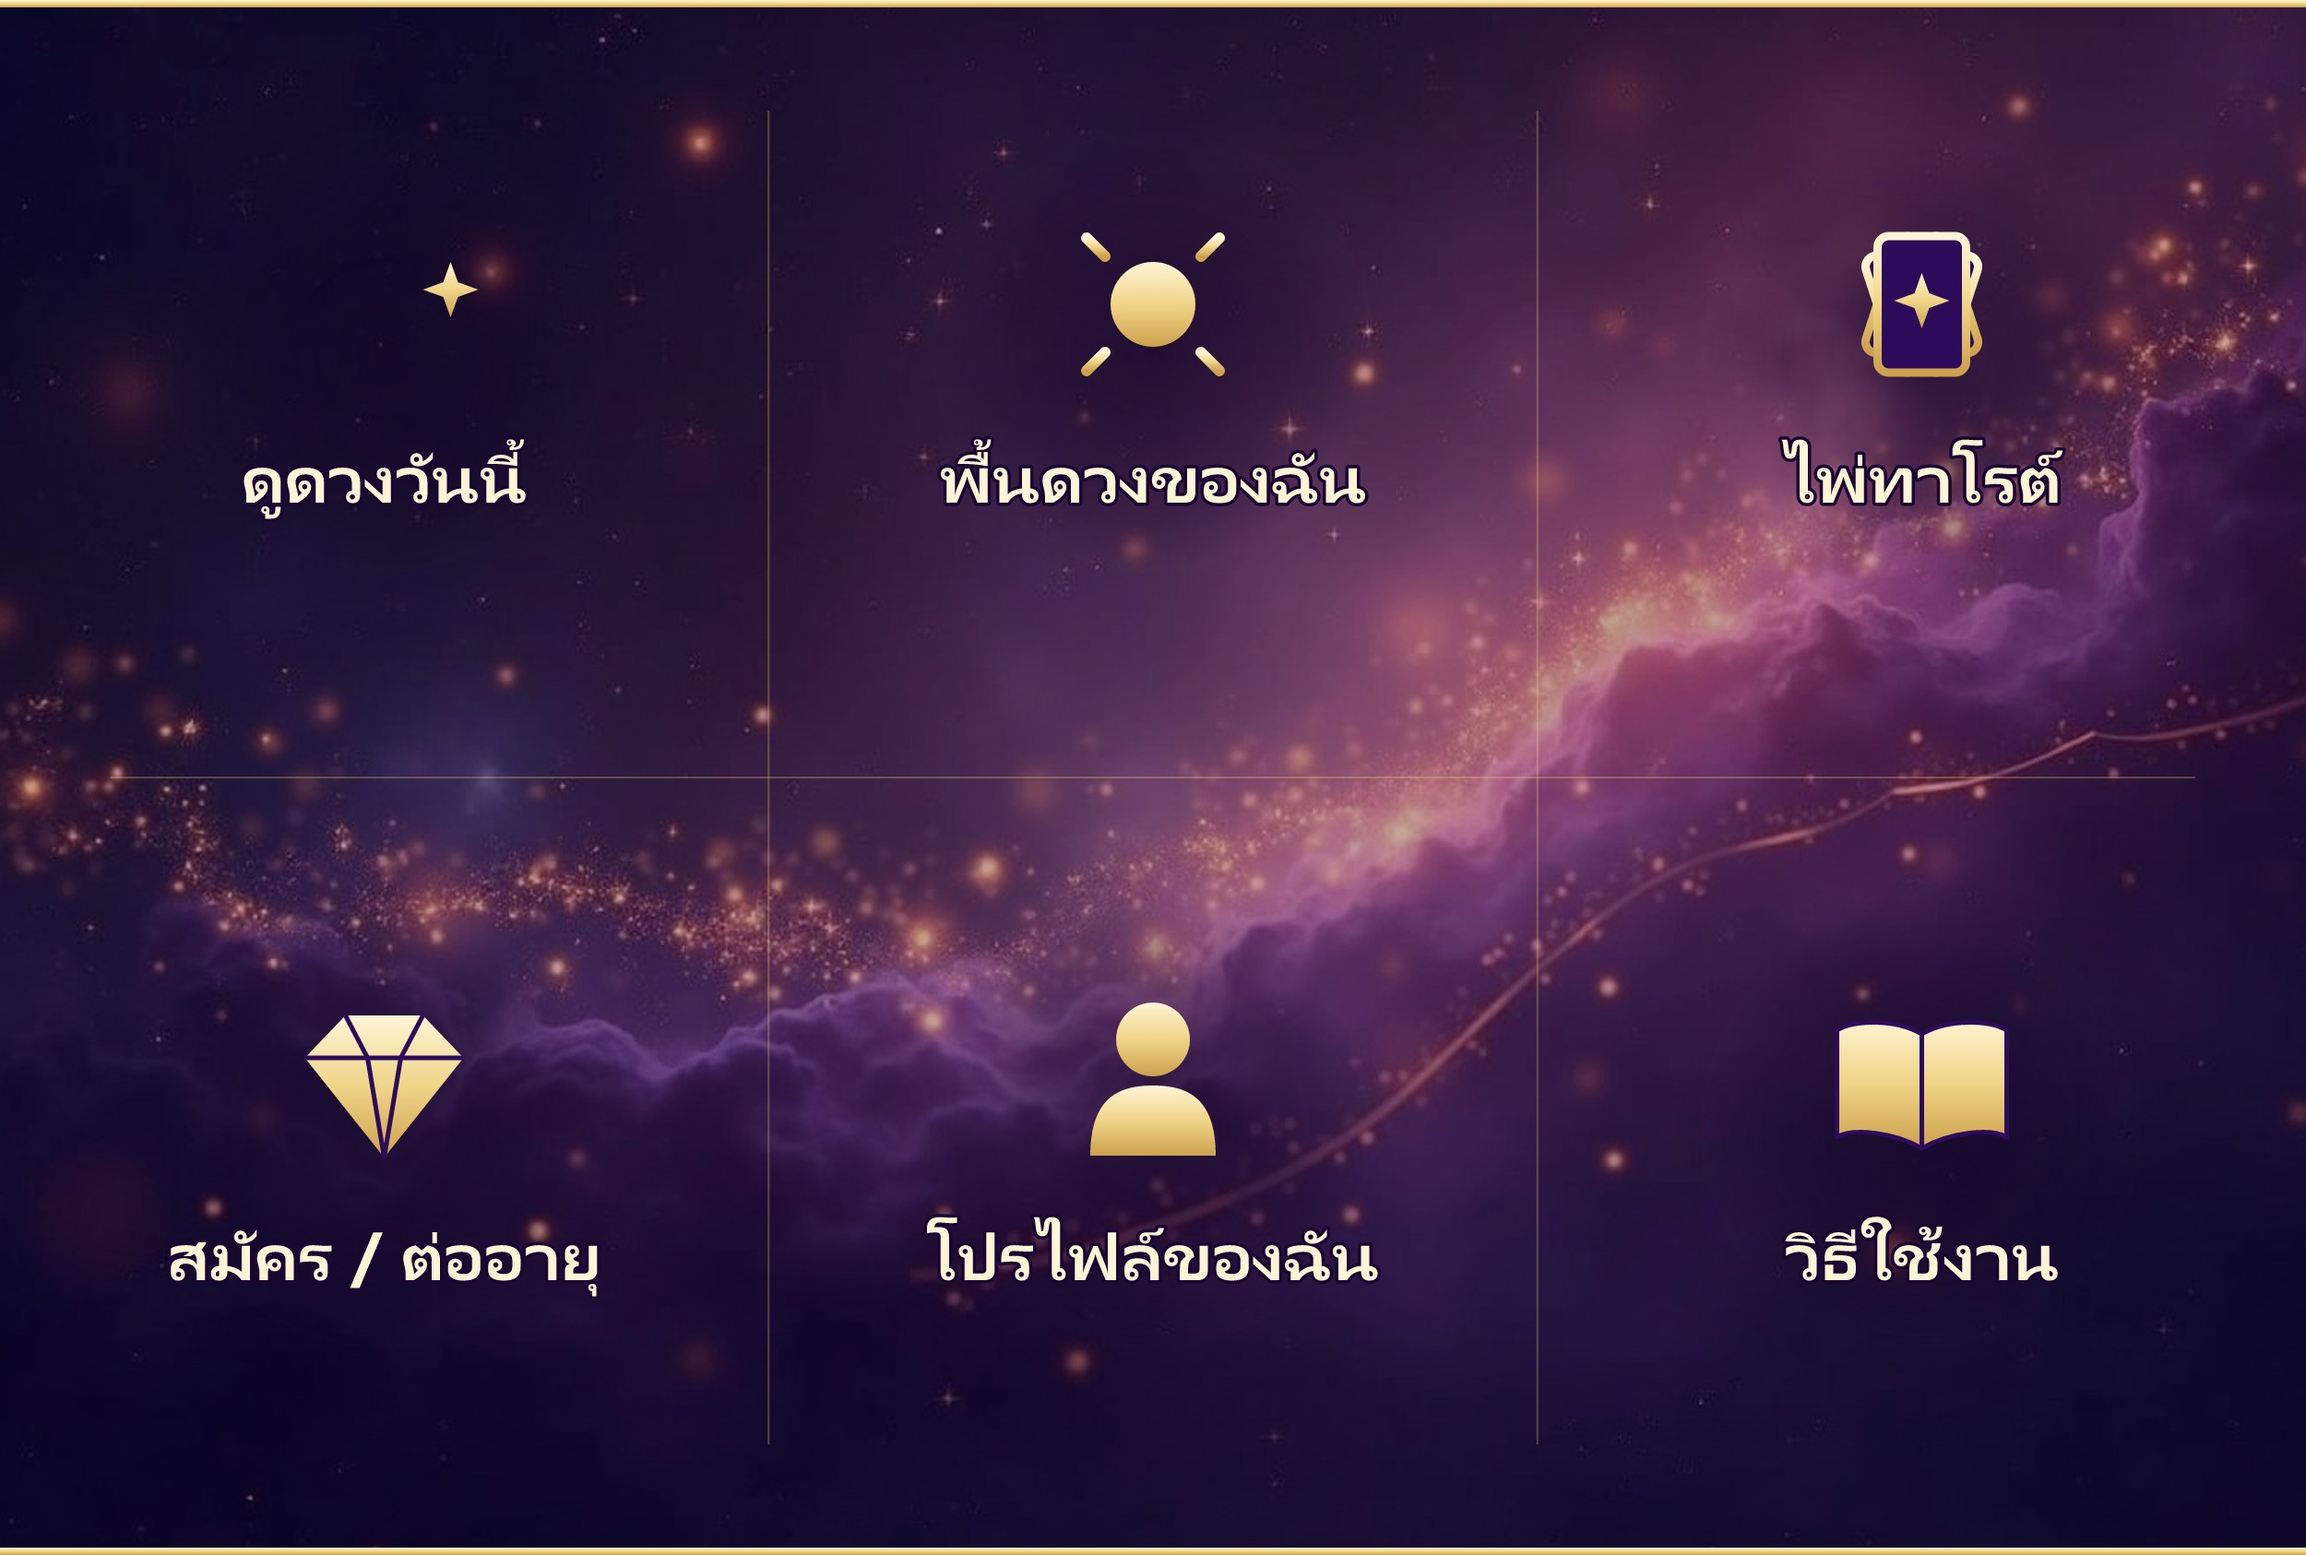
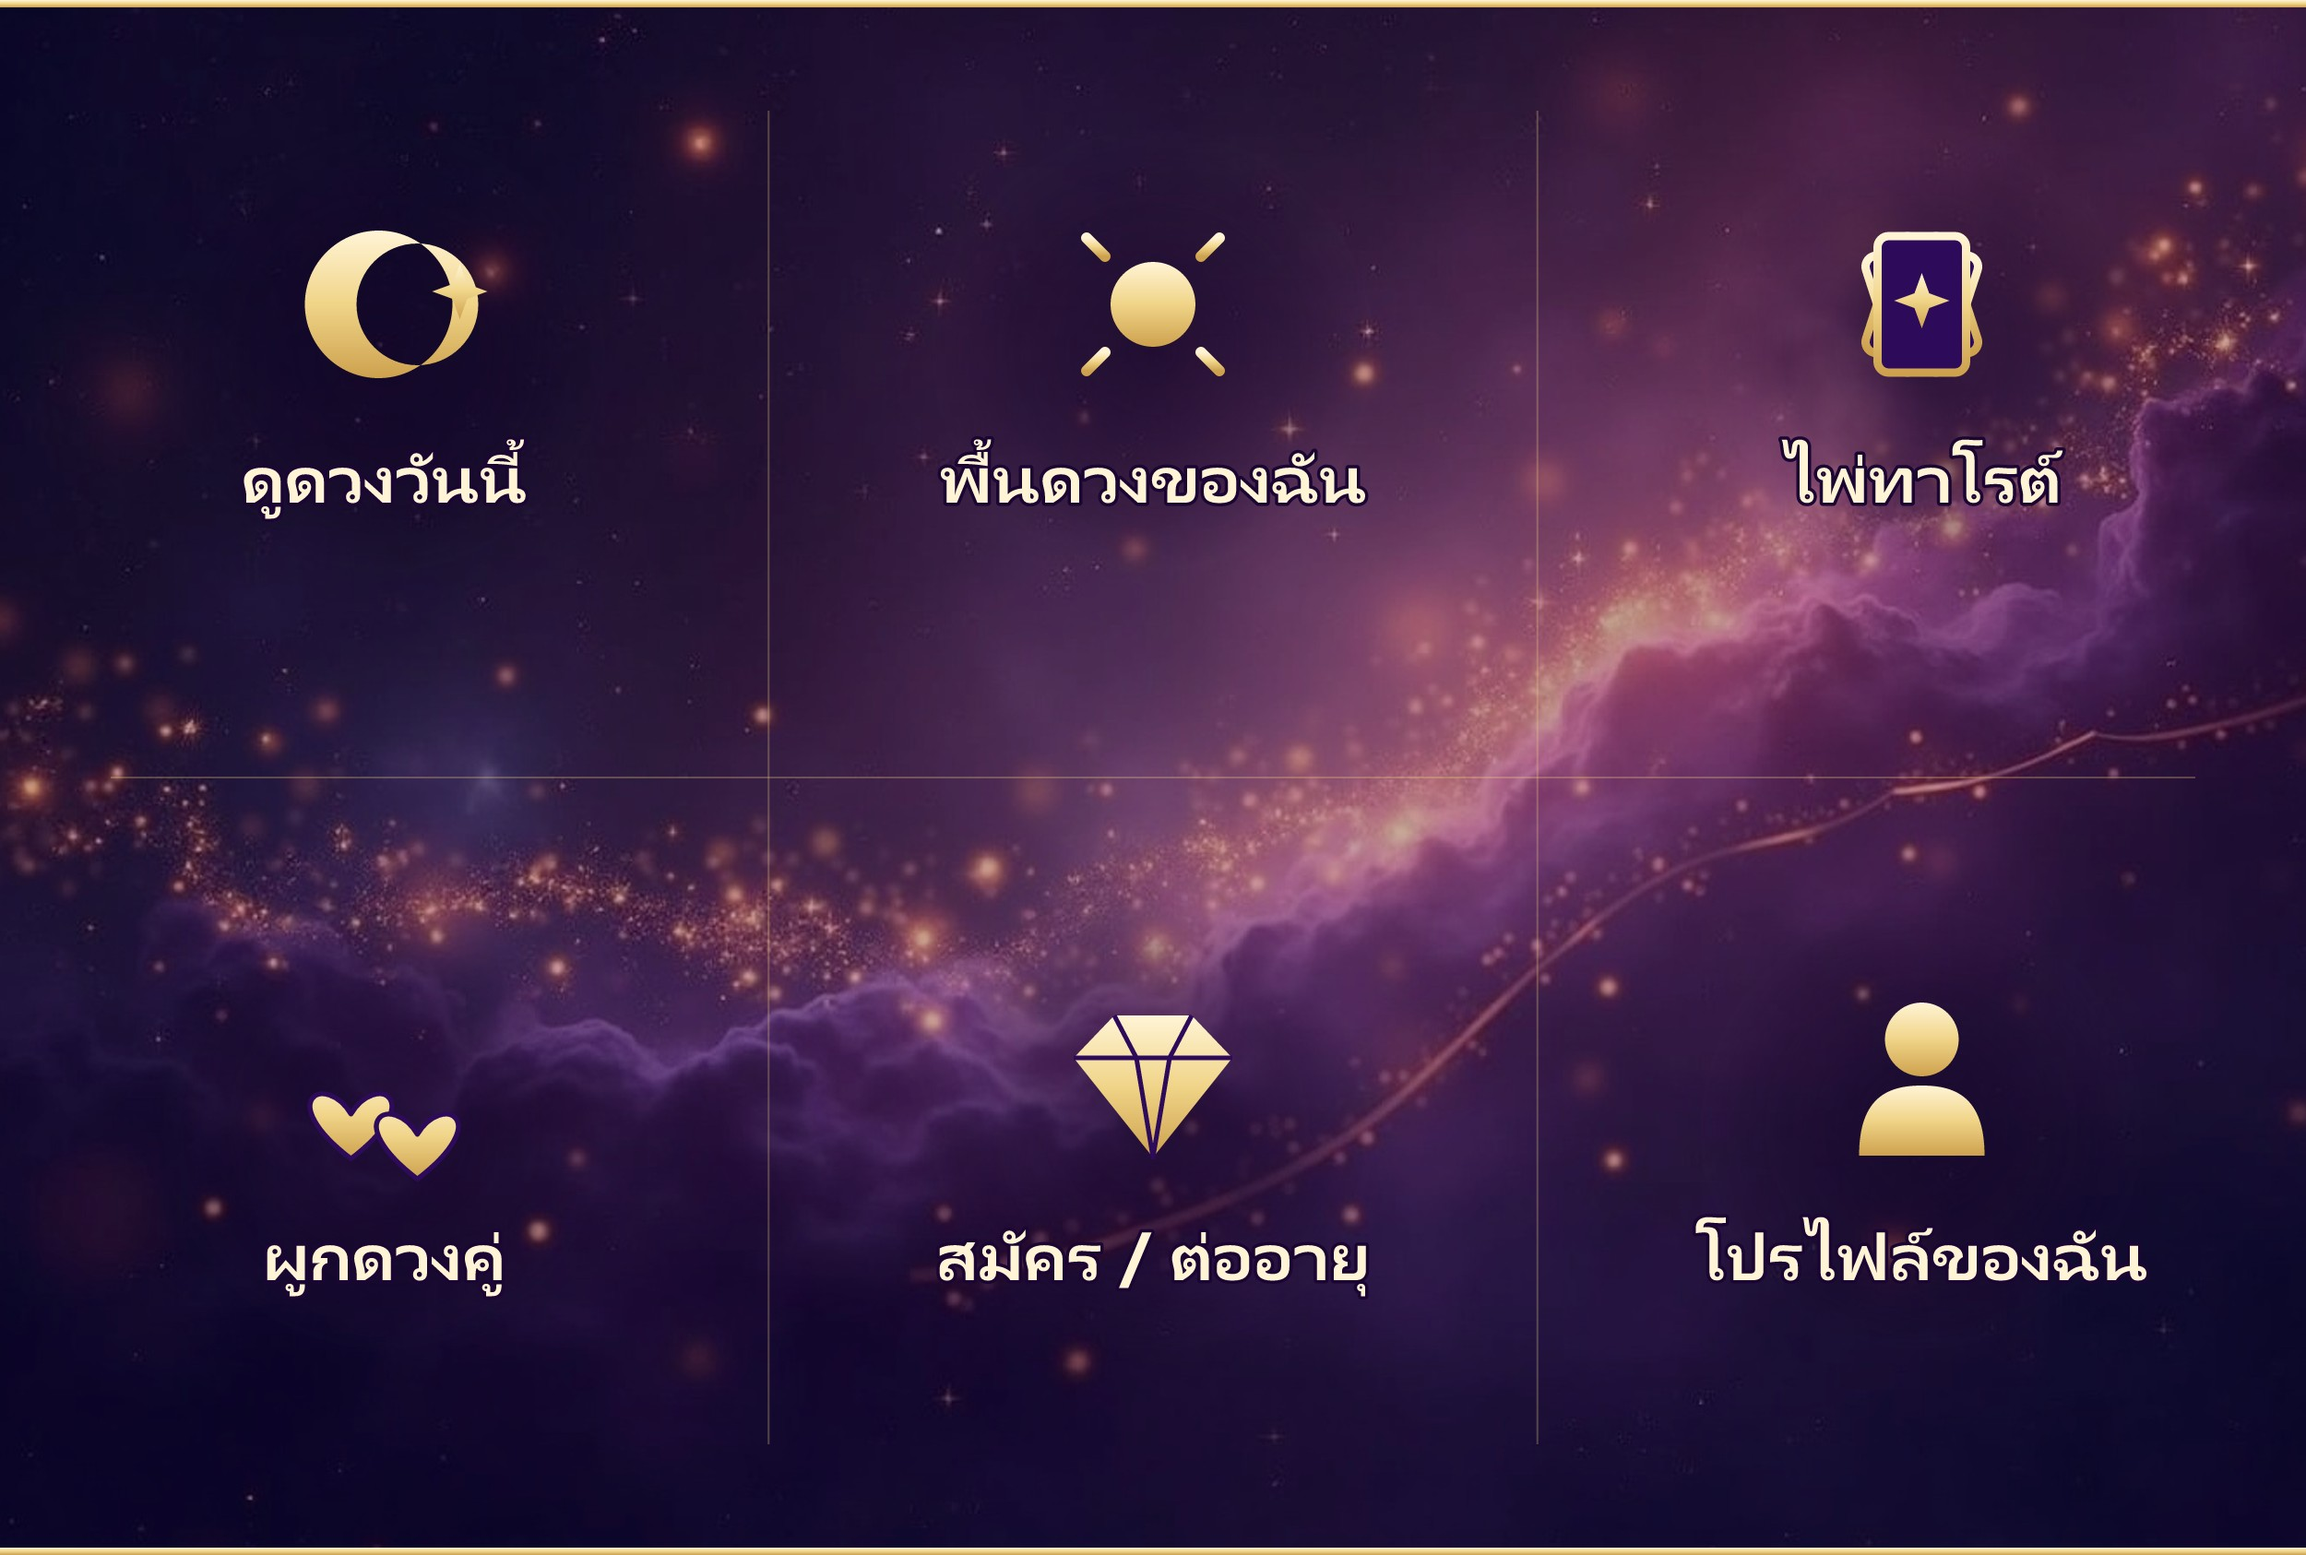
Rich menu: drop help button, add couple slot (clean 6-grid); help via keyword
- Rich menu back to symmetric 3x2: daily/natal/tarot + couple/signup/profile.
  "วิธีใช้งาน" removed; couple horoscope gets a dedicated button.
- Help is now keyword-driven: any text (incl. "ช่วยเหลือ") returns the guide.
- Welcome message tells users they can type "ช่วยเหลือ" anytime.
- Help text ends with a hand-off to human staff chat.
- Crescent-moon icon redrawn with evenodd circles (resvg dropped the arc path).

diff --git a/src/routes/webhook.js b/src/routes/webhook.js
@@ -78,11 +78,12 @@ async function handleEvent(event) {
   if (event.type === 'follow') {
     return replyMessage(event.replyToken, {
       type: 'text',
-      text: `ยินดีต้อนรับสู่ Prinnie333 ✨\nรับดวงส่วนตัวรายวันผ่าน LINE\n\nเริ่มต้นกรอกวันเกิด 👉 ${LIFF_URL}`,
+      text: `ยินดีต้อนรับสู่ Prinnie333 ✨\nรับดวงส่วนตัวรายวันผ่าน LINE\n\nเริ่มต้นกรอกวันเกิด 👉 ${LIFF_URL}\n\n💡 พิมพ์ "ช่วยเหลือ" เมื่อไรก็ได้ เพื่อดูวิธีใช้งาน`,
     });
   }
 
-  // ปุ่ม rich menu ส่ง postback / ข้อความพิมพ์ → เดาเจตนา (คีย์เวิร์ดดวงคู่)
+  // ปุ่ม rich menu ส่ง postback / ข้อความพิมพ์ → เดาเจตนา
+  //   คีย์เวิร์ดดวงคู่ → synastry, คีย์เวิร์ดช่วยเหลือ/ทักทาย → help, อื่น ๆ → help
   let action = null;
   if (event.type === 'postback') {
     action = new URLSearchParams(event.postback.data).get('action');
@@ -153,7 +154,7 @@ async function handleEvent(event) {
       default:
         return replyMessage(event.replyToken, {
           type: 'text',
-          text: `📖 วิธีใช้งาน Prinnie333\n\n• ดูดวงวันนี้ — ดวงรายวันส่วนตัว\n• พื้นดวง — ดวงกำเนิดของคุณ\n• ไพ่ทาโรต์ — ไพ่ประจำวัน\n• 💞 ผูกดวงคู่ — พิมพ์ "ดวงคู่" หรือกดชิป 💞 ใต้ข้อความดวง\n• สมัคร/ต่ออายุ/แก้ไขข้อมูล — ${LIFF_URL}\n\nดวงจะส่งอัตโนมัติทุกเช้า 08:00 น.`,
+          text: `📖 วิธีใช้งาน Prinnie333\n\n• ☀ ดูดวงวันนี้ — ดวงรายวันส่วนตัว\n• 🌟 พื้นดวง — ดวงกำเนิดของคุณ\n• 🃏 ไพ่ทาโรต์ — ไพ่ประจำวัน\n• 💞 ผูกดวงคู่ — ดูดวงความเข้ากันกับคนพิเศษ\n• 💎 สมัคร/ต่ออายุ/แก้ไขข้อมูล — ${LIFF_URL}\n\nดวงจะส่งอัตโนมัติทุกเช้า 08:00 น.\n\n💜 มีคำถามเพิ่มเติม พิมพ์ทักแชทได้เลย ทีมงานยินดีช่วยดูแลค่ะ`,
         });
     }
   } catch (err) {
